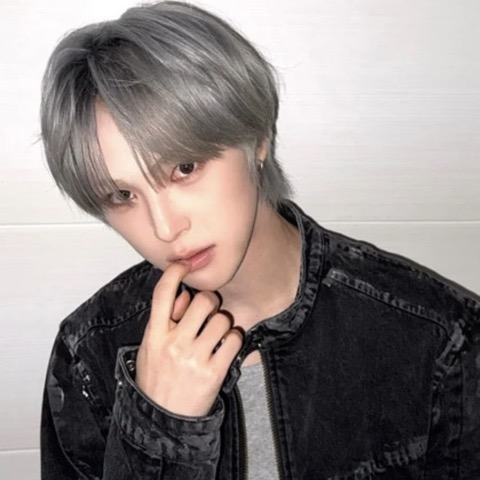
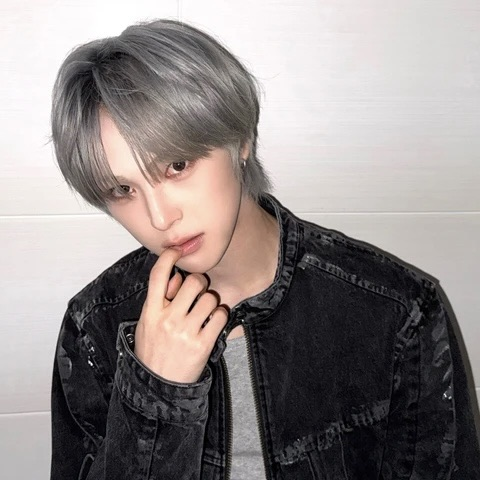
Add files via upload

diff --git a/data/roster.js b/data/roster.js
@@ -413,8 +413,6 @@ window.ROSTER = [
   {"group":"THE BOYZ","img":"6_画像5/411.jpg","name":"ソヌ","no":411},
   {"group":"THE BOYZ","img":"6_画像5/412.jpg","name":"エリック","no":412},
   {"group":"THE BOYZ","img":"6_画像5/413.jpg","name":"ファル","no":413},
-  {"group":"THE BOYZ","img":"6_画像5/414.jpg","name":"チュハンニョン","no":414},
-  {"group":"THE BOYZ","img":"6_画像5/415.jpg","name":"ニュー","no":415},
   {"group":"The Wind","img":"6_画像5/416.jpg","name":"キムヒス","no":416},
   {"group":"The Wind","img":"6_画像5/417.jpg","name":"タナトーン","no":417},
   {"group":"The Wind","img":"6_画像5/418.jpg","name":"チェハンビン","no":418},
